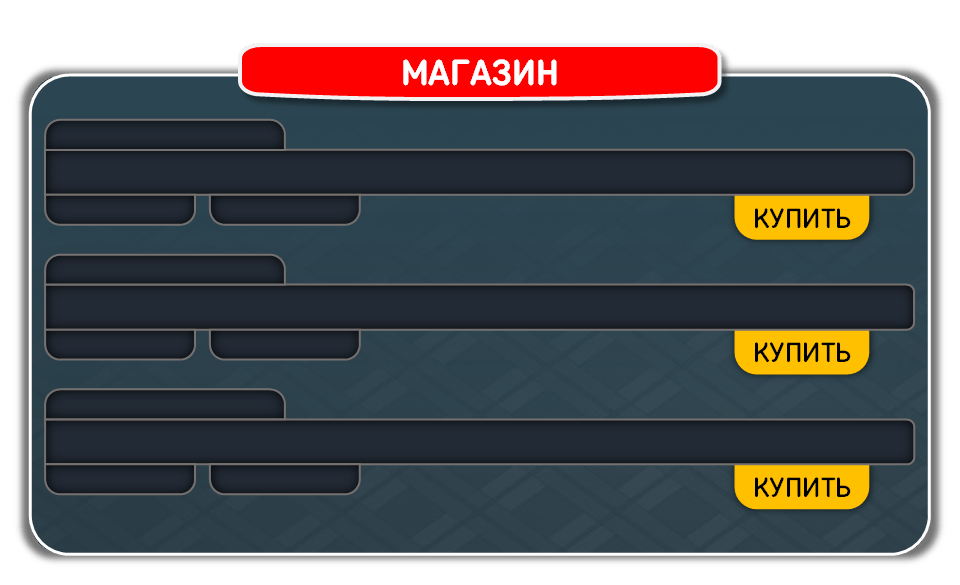
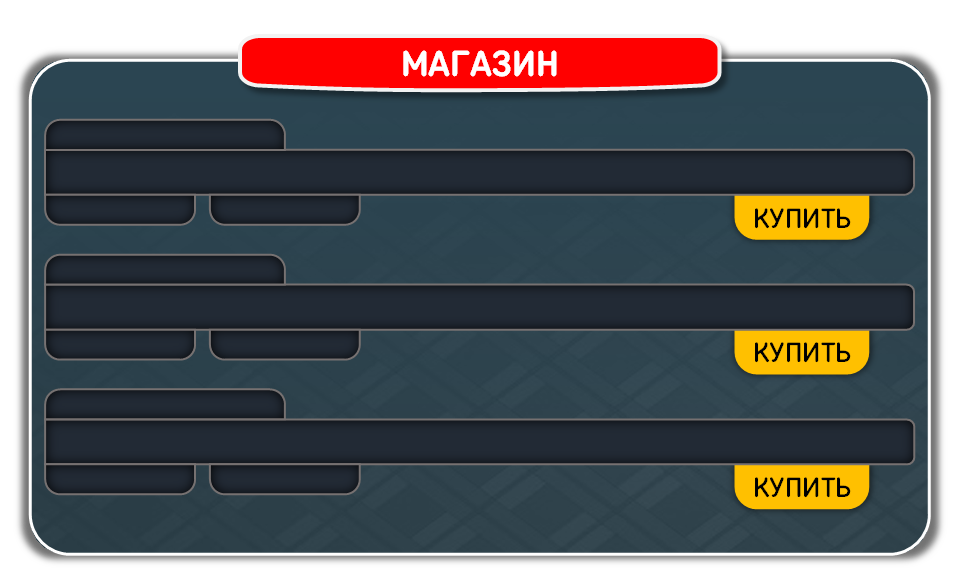
123

Changed region(s): [[0.0, 0.0615, 1.0, 0.1846], [0.0312, 0.9231, 0.0625, 0.9538]]

diff --git a/index.js b/index.js
@@ -2715,6 +2715,7 @@ pref={
 	cur_board_id:1,
 	cur_pic_url:'',
 	max_cue_resource:[100,100,120,150,200,300,500,1000],
+	cue_lev_to_res:{0:999,1:50,2:70,3:100,4:120,5:150,6:200,7:300}
 	hours_to_nick_change:0,
 	hours_to_photo_change:0,
 	yndx_catalog:0,
@@ -2758,6 +2759,44 @@ pref={
 		}	
 		
 	
+	},
+	
+	show_down(e){
+		
+		if (anim3.any_on()) {
+			sound.play('locked');
+			return
+		};
+
+		const mx = e.data.global.x/app.stage.scale.x
+		const my = e.data.global.y/app.stage.scale.y
+		
+		if (mx>650&&my>60&&mx<700&&my<100)
+			objects.shop_cont.visible=false
+		
+		if (mx>570&&my>140&&mx<660&&my<170)	this.make_purchase(this.shop_cues_ids[0])
+		if (mx>570&&my>230&&mx<660&&my<260)	this.make_purchase(this.shop_cues_ids[1])
+		if (mx>570&&my>320&&mx<660&&my<360)	this.make_purchase(this.shop_cues_ids[2])
+		
+		
+	},
+	
+	make_purchase(cue_id){
+		
+		const cue_lev=common.cue_id_to_lev(cue_id)
+		
+		if (game_platform==='YANDEX') {
+			yndx_payments.purchase({id:'cue_lev'+cue_lev}).then(purchase => {
+				my_data.cues_data[cue_id]=this.cue_lev_to_res[cue_lev]
+				my_ws.ref(`players/${my_data.uid}/cues_data`).set(my_data.cues_data)	
+				this.send_info(['Вы совершил покупку!','success!'][LANG]);
+				my_ws.safe_send({cmd:'log_inst',logger:'payments',data:{game_name,uid:my_data.uid,name:my_data.name,item_id:'cue_lev'+cue_lev}});
+				yndx_payments.consumePurchase(purchase.purchaseToken);
+			}).catch(err => {
+				this.send_info(['Ошибка при покупке!','Error!'][LANG]);
+			})
+		}	
+		
 	},
 
 	activate(){